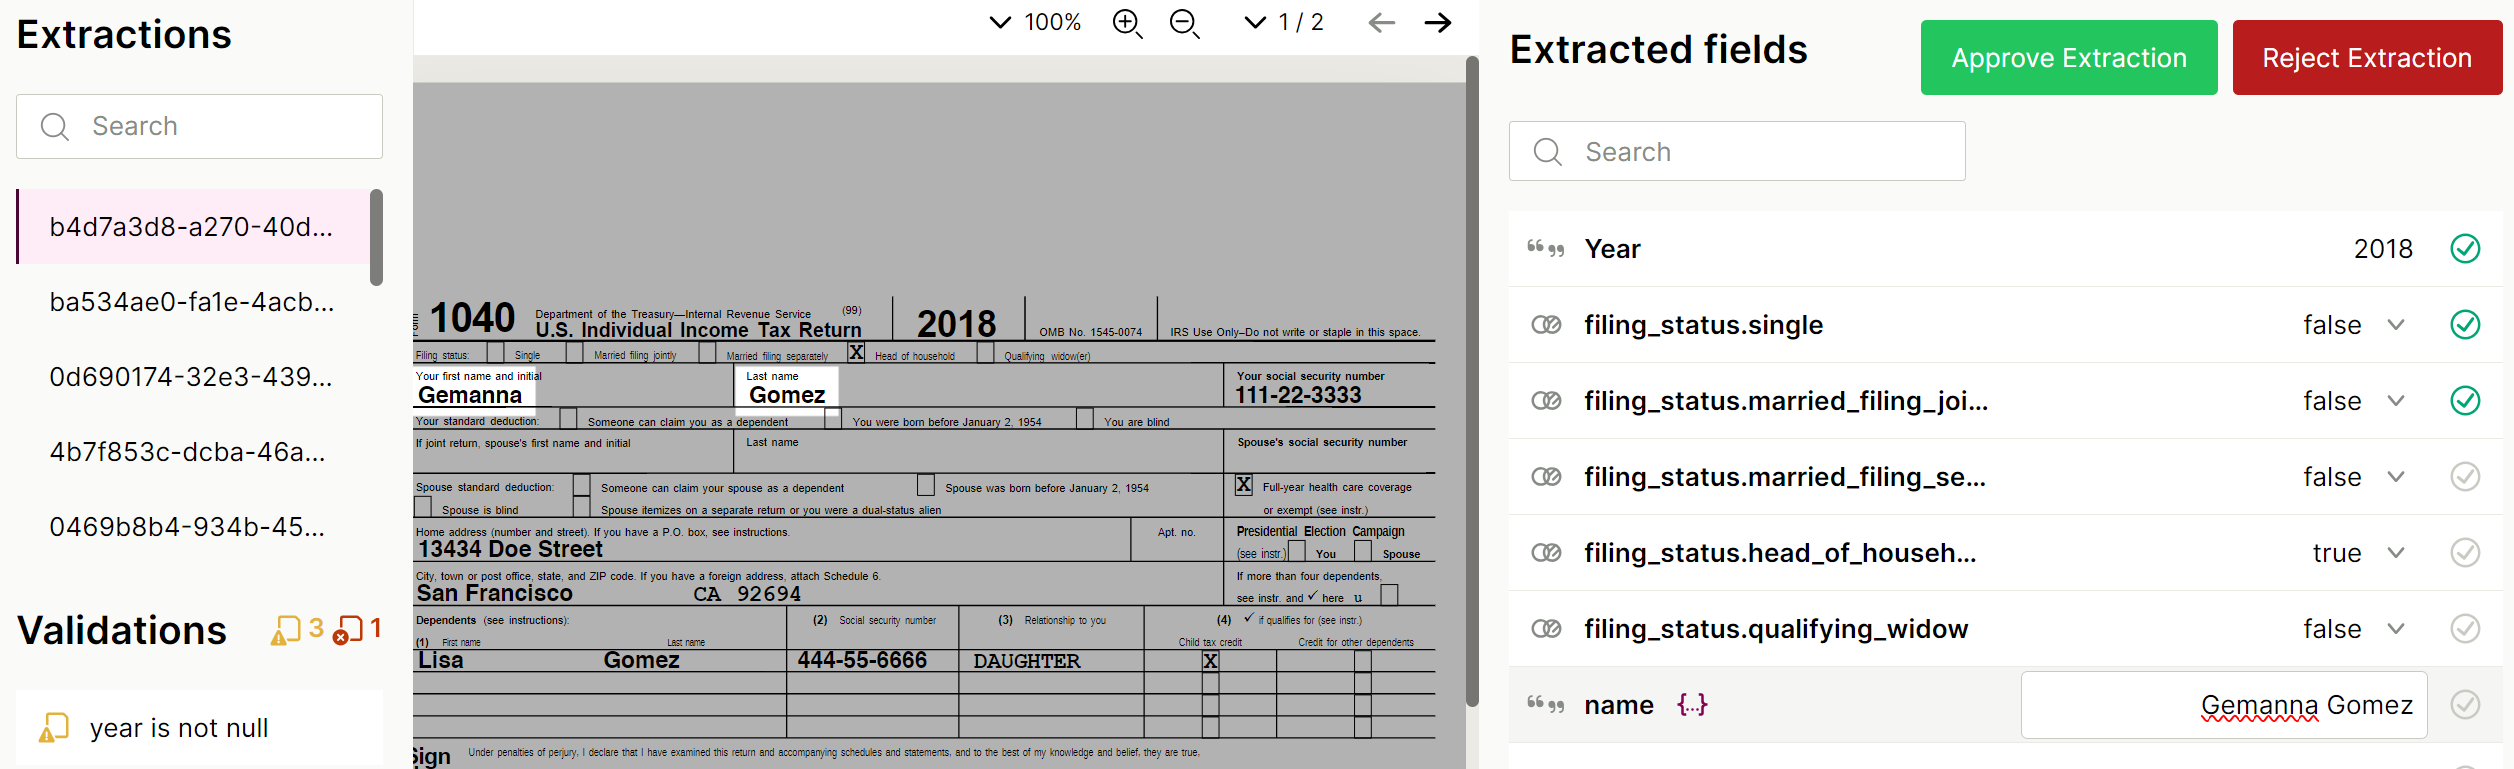
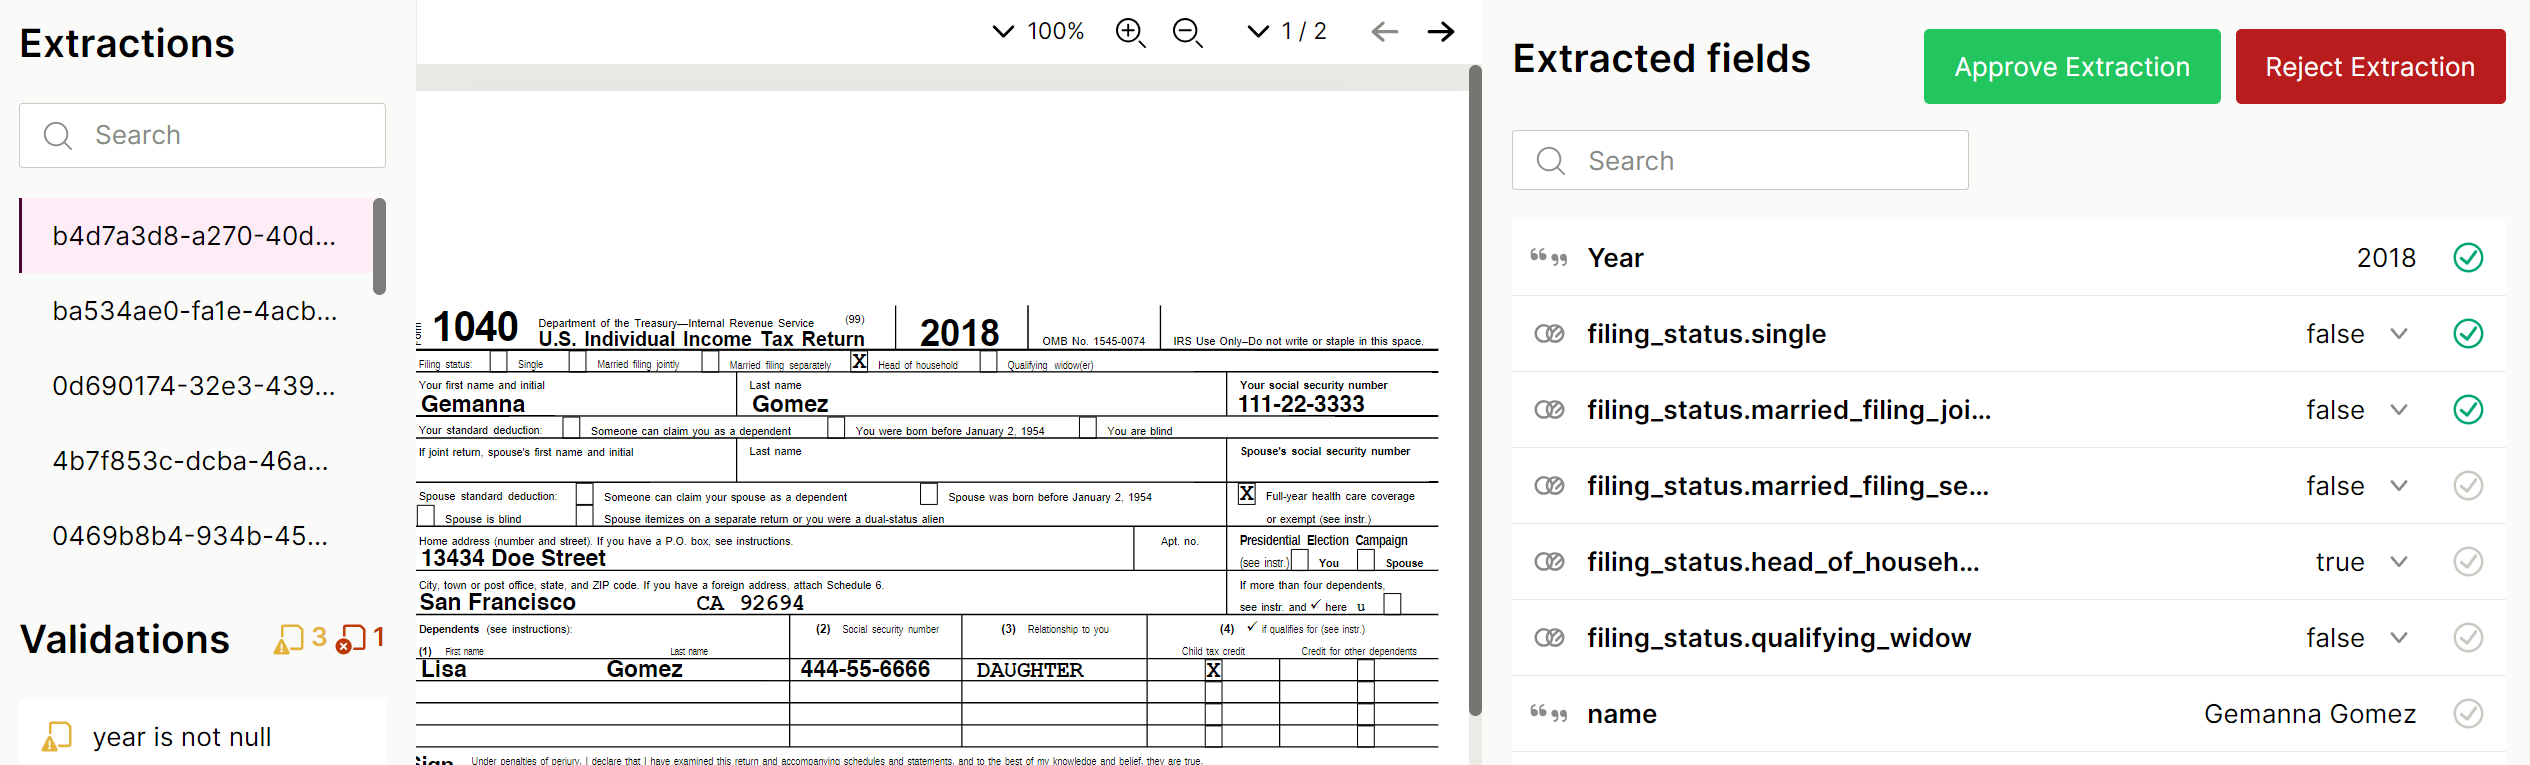
human review

diff --git a/readme-sync/v0/best-practices/5000 - human-review.md b/readme-sync/v0/best-practices/5000 - human-review.md
@@ -26,7 +26,11 @@ Click a document type to review the flagged extractions:
 
 ![Click to enlarge](https://raw.githubusercontent.com/sensible-hq/sensible-docs/main/readme-sync/assets/v0/images/final/human_review_3.png) 
 
-You can click a field's value to view its source location highlighted in the document and to edit the value:
+You can click a field's value to:
+
+- view the full field value for tables, sections, and other complex fields
+- edit the field's value
+- view the field's source location highlighted in the document
 
 ![Click to enlarge](https://raw.githubusercontent.com/sensible-hq/sensible-docs/main/readme-sync/assets/v0/images/final/human_review_4.png)
 
